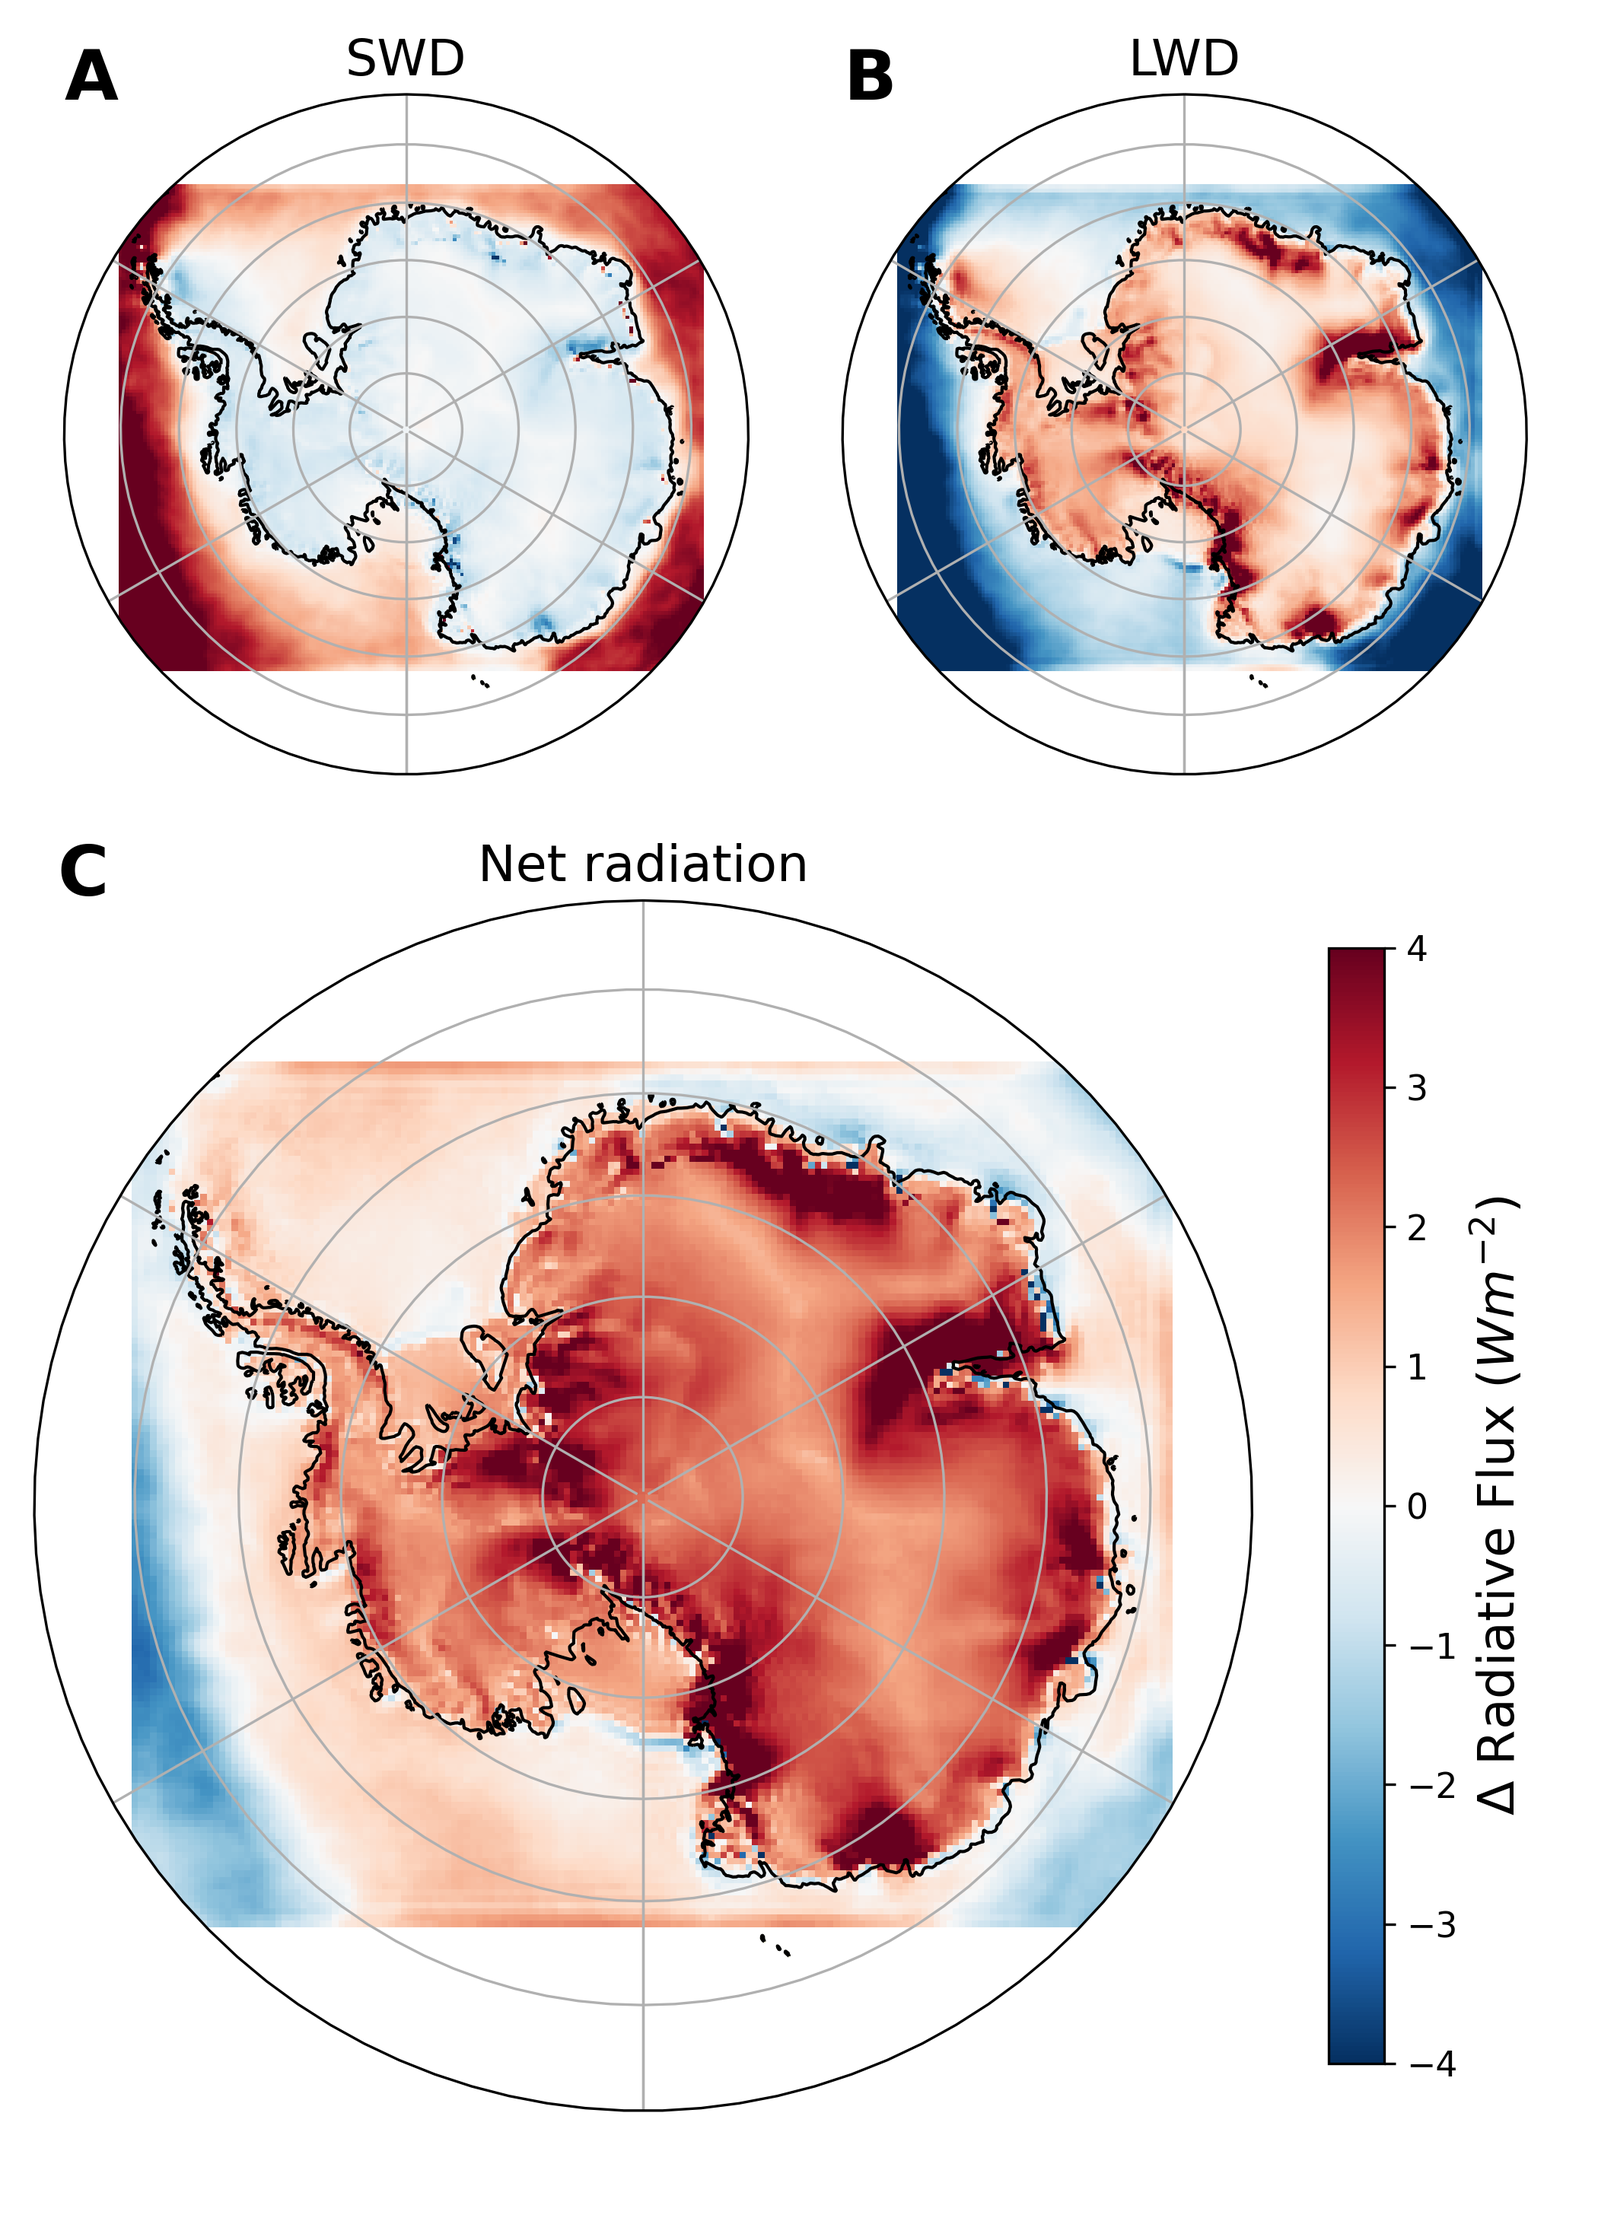
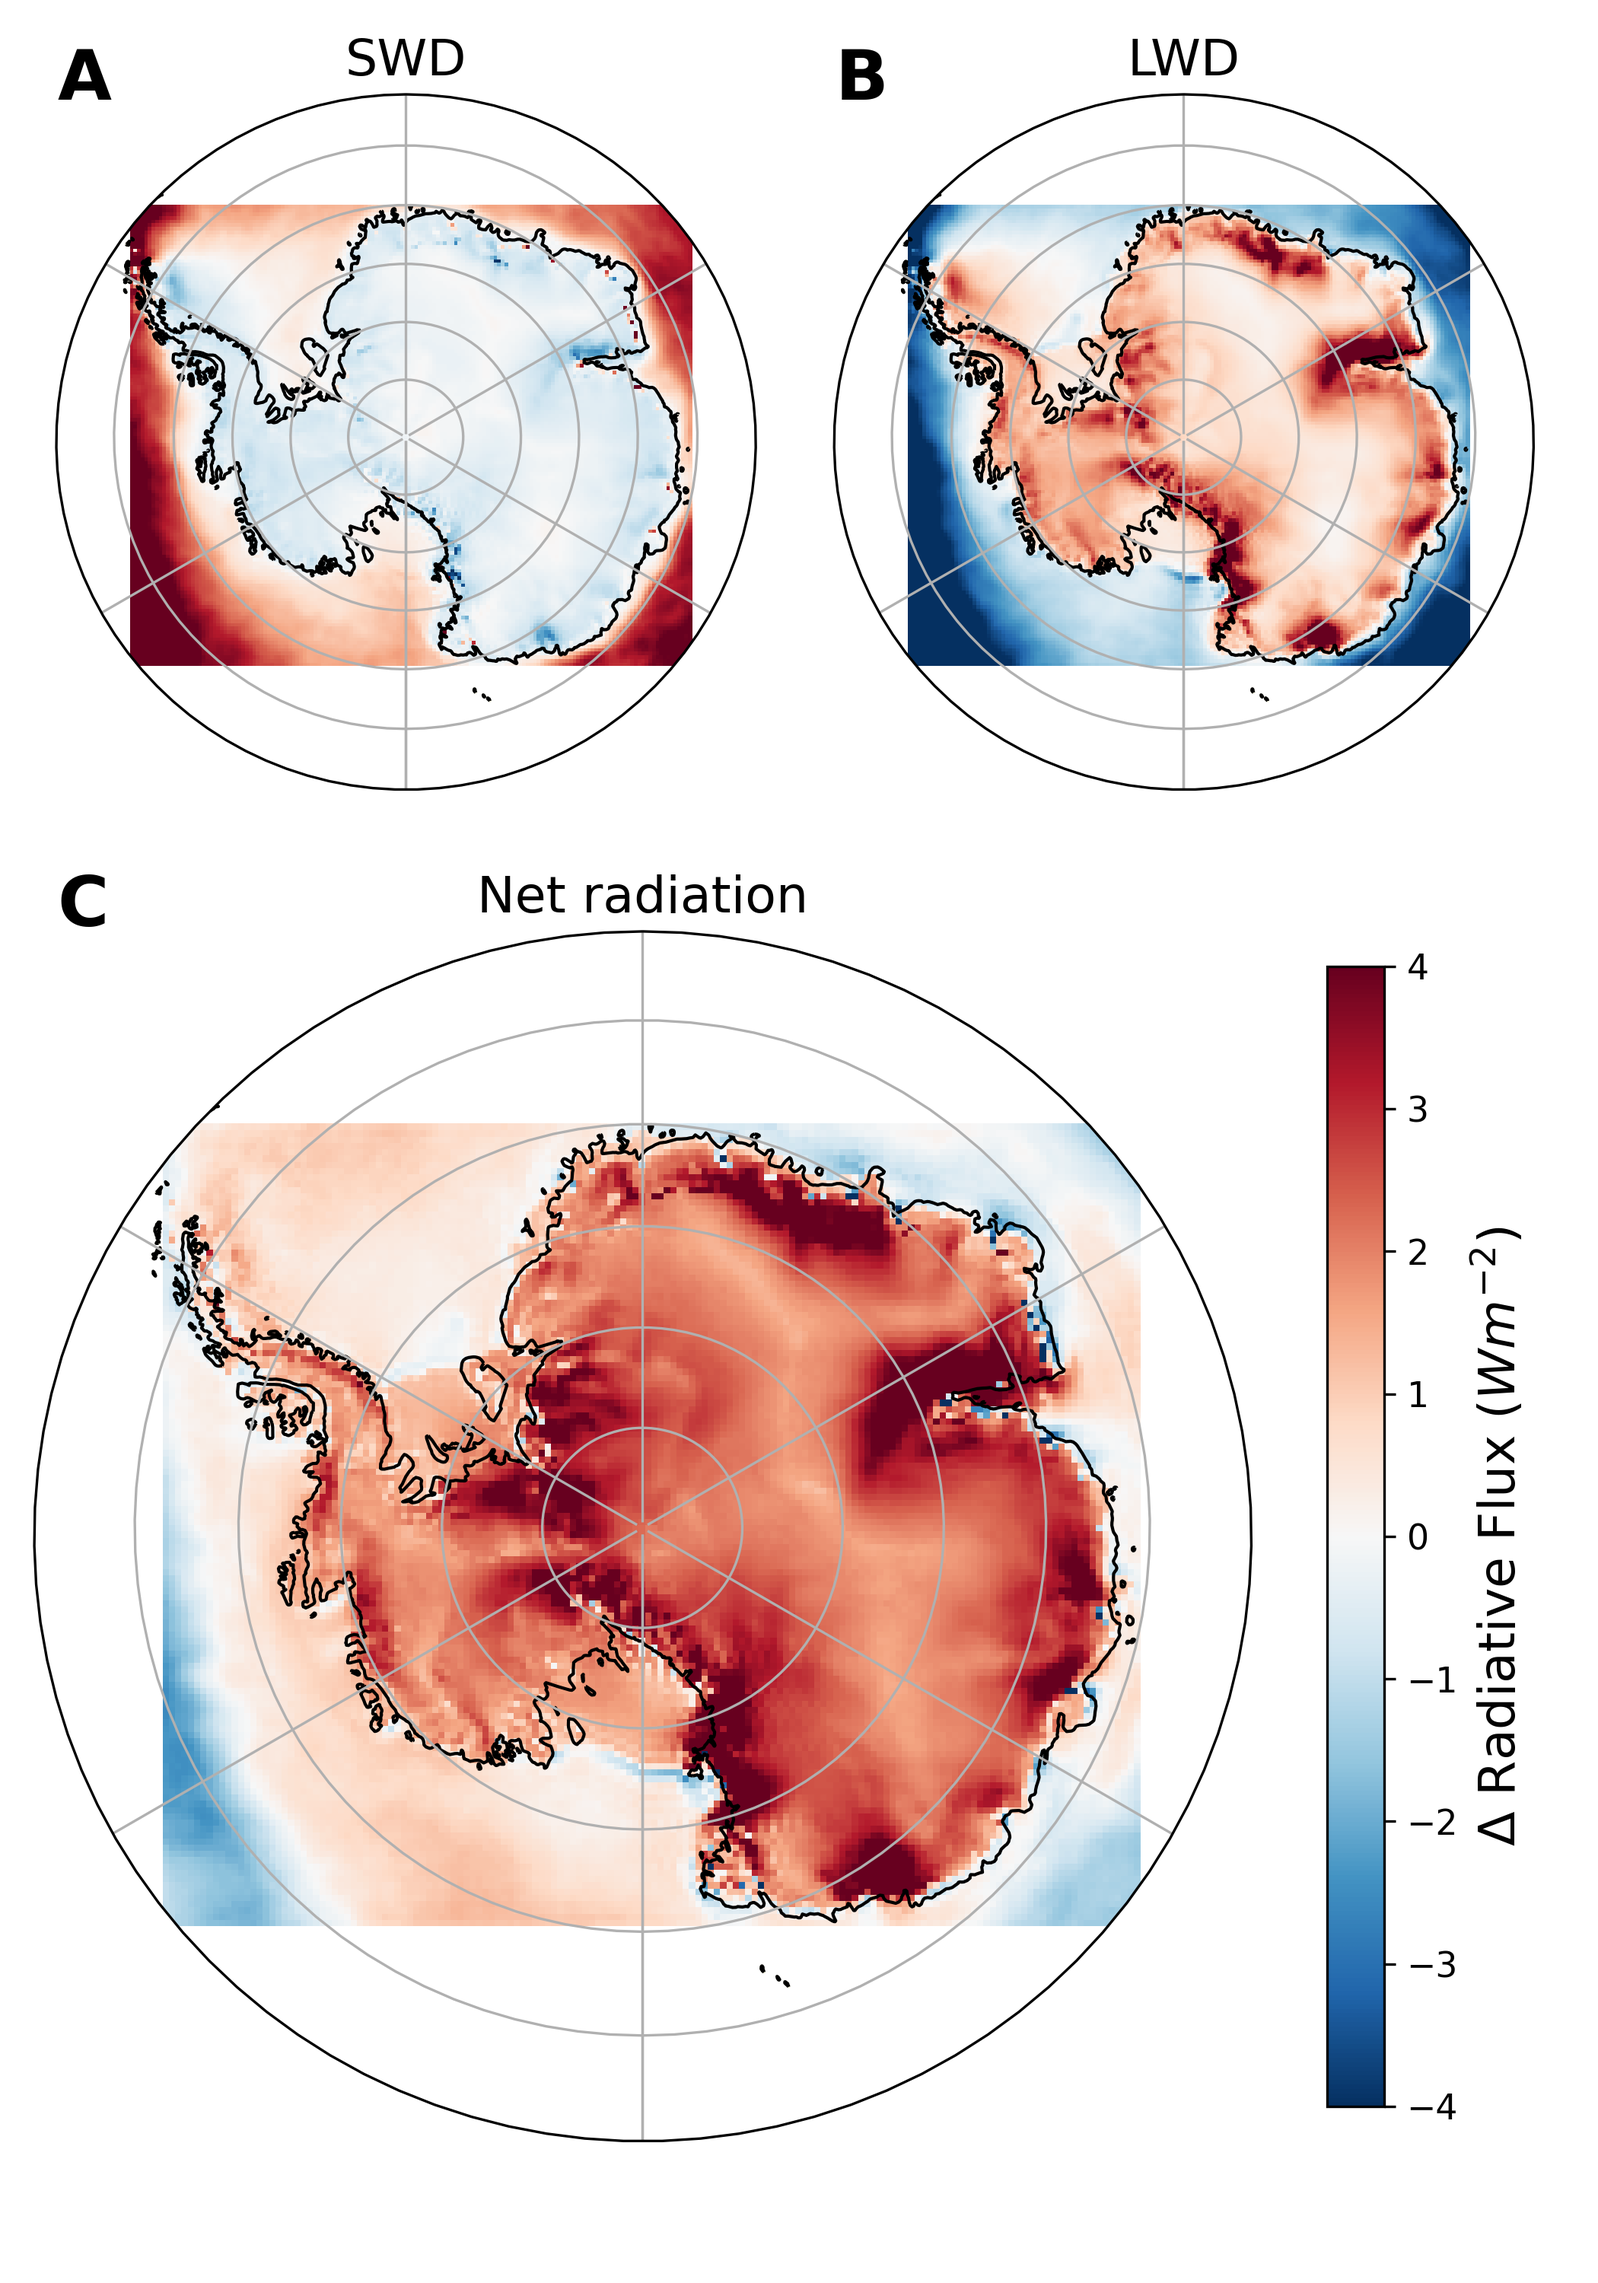
WIP: First draft updates

diff --git a/Fig4/2d_SEB.py b/Fig4/2d_SEB.py
@@ -38,6 +38,10 @@ ds_bs_SWN.name = 'SWN'
 ds_bs_LWN = (ds_bs_LWD.LWD - ds_bs_LWU.LWU)
 ds_bs_LWN.name = 'LWN'
 
+for ds in [ds_bs_SWD, ds_bs_SWU, ds_bs_LWD, ds_bs_LWU, ds_bs_AL, ds_bs_SWN, ds_bs_LWN]:
+    ds['X'] = ds['X'] * 1000
+    ds['Y'] = ds['Y'] * 1000
+
 # ========================================
 ds_nobs_SWD = (xr.open_dataset(
     file_str_nobs + 'mon-SWD-MAR_ERA5-1979-2019.nc')).sel(TIME=slice(year_s, year_e)).mean(dim='TIME')
@@ -53,55 +57,63 @@ ds_nobs_SWN = (ds_nobs_SWD.SWD - ds_nobs_SWU.SWU)
 ds_nobs_SWN.name = 'SWN'
 ds_nobs_LWN = (ds_nobs_LWD.LWD - ds_nobs_LWU.LWU)
 ds_nobs_LWN.name = 'LWN'
+
+for ds in [ds_nobs_SWD, ds_nobs_SWU, ds_nobs_LWD, ds_nobs_LWU, ds_nobs_AL, ds_nobs_SWN, ds_nobs_LWN]:
+    ds['X'] = ds['X'] * 1000
+    ds['Y'] = ds['Y'] * 1000
 # ============================================
+# ==========================================================================
+# CREATE the ICE MASK
+# =========================================================
+
 MAR_grid = xr.open_dataset(
     file_str_zz + 'MARcst-AN35km-176x148.cdf')
 ds_grid = xr.Dataset({'RIGNOT': (['y', 'x'], MAR_grid.RIGNOT.values),
                       'SH': (['y', 'x'], MAR_grid.SH.values),
                       'LAT': (['y', 'x'], MAR_grid.LAT.values),
-                      'LON': (['y', 'x'], MAR_grid.LON.values)},
-                     coords={'x': (['x'], ds_nobs_SWD.X),
-                             'y': (['y'], ds_nobs_SWD.Y)})
+                      'LON': (['y', 'x'], MAR_grid.LON.values),
+                      'ICE': (['y', 'x'], MAR_grid.ICE.values),
+                      'AIS': (['y', 'x'], MAR_grid.AIS.values),
+                      'GROUND': (['y', 'x'], MAR_grid.GROUND.values),
+                      'AREA': (['y', 'x'], MAR_grid.AREA.values),
+                      'ROCK': (['y', 'x'], MAR_grid.ROCK.values)},
+                     coords={'x': (['x'], ds_nobs_CC.X),
+                             'y': (['y'], ds_nobs_CC.Y)})
 
-# ==========================================================================
-# CREATE the ICE MASK
-MSK = xr.open_dataset(
-    file_str_zz + 'MARcst-AN35km-176x148.cdf', decode_times=False)
-MSK = MSK.rename_dims({'x': 'X', 'y': 'Y'})  # change dim from ferret
-MSK = MSK.swap_dims({'X': 'x', 'Y': 'y'})  # change dim from ferret
-
-ais = MSK['AIS'].where(MSK['AIS'] > 0)  # Only AIS=1, other islands  =0
+ais = ds_grid['AIS'].where(ds_grid)['AIS'] > 0  # Only AIS=1, other islands  =0
 # Ice where ICE mask >= 30% (ICE[0-100%], dividing by 100 in the next ligne)
-ice = MSK['ICE'].where(MSK['ICE'] > 30)
+ice = ds_grid['ICE'].where(ds_grid['ICE'] > 30)
 # Combine ais + ice/100 * factor area for taking into account the projection
-ice_msk = (ais * ice * MSK['AREA'] / 100)
+ice_msk = (ais * ice * ds_grid['AREA'] / 100)
 
-grd = MSK['GROUND'].where(MSK['GROUND'] > 30)
-grd_msk = (ais * grd * MSK['AREA'] / 100)
+grd = ds_grid['GROUND'].where(ds_grid['GROUND'] > 30)
+grd_msk = (ais * grd * ds_grid['AREA'] / 100)
 
-lsm = (MSK['AIS'] < 1)
-ground = (MSK['GROUND'] * MSK['AIS'] > 30)
+lsm = (ds_grid['AIS'] < 1)
+ground = (ds_grid['GROUND'] * ds_grid['AIS'] > 30)
 
-shf = (MSK['ICE'] / MSK['ICE']).where((MSK['ICE'] > 30) &
-                                      (MSK['GROUND'] < 50) & (MSK['ROCK'] < 30) & (ais > 0))
+shf = (ds_grid['ICE'] / ds_grid['ICE']).where((ds_grid['ICE'] > 30) &
+                                              (ds_grid['GROUND'] < 50) & (ds_grid['ROCK'] < 30) & (ais > 0))
 shelf = (shf > 0)
 
-x2D, y2D = np.meshgrid(MSK['x'], MSK['y'])
-sh = MSK['SH']
+x2D, y2D = np.meshgrid(ds_grid['x'], ds_grid['y'])
+sh = ds_grid['SH']
 
-dh = (MSK['x'].values[0] - MSK['x'].values[1]) / 2.
+dh = (ds_grid['x'].values[0] - ds_grid['x'].values[1]) / 2.
+
 
 # ==========================================================
 
 
 diff_SWD = (ds_bs_SWD - ds_nobs_SWD).rename(
-    {'X': 'x', 'Y': 'y'}).isel(x=slice(5, -5), y=slice(5, -5))
+    {'X': 'x', 'Y': 'y'}).isel(x=slice(10, -10), y=slice(10, -10))
 diff_LWD = (ds_bs_LWD - ds_nobs_LWD).rename(
-    {'X': 'x', 'Y': 'y'}).isel(x=slice(5, -5), y=slice(5, -5))
+    {'X': 'x', 'Y': 'y'}).isel(x=slice(10, -10), y=slice(10, -10))
 diff_SWN = (ds_bs_SWN - ds_nobs_SWN).rename(
-    {'X': 'x', 'Y': 'y'}).isel(x=slice(5, -5), y=slice(5, -5))
+    {'X': 'x', 'Y': 'y'}).isel(x=slice(10, -10), y=slice(10, -10))
 diff_LWN = (ds_bs_LWN - ds_nobs_LWN).rename(
-    {'X': 'x', 'Y': 'y'}).isel(x=slice(5, -5), y=slice(5, -5))
+    {'X': 'x', 'Y': 'y'}).isel(x=slice(10, -10), y=slice(10, -10))
+
 
 diff_SWD['LAT'] = ds_grid.LAT
 diff_SWD['LON'] = ds_grid.LON
@@ -118,6 +130,35 @@ diff_LWN['LON'] = ds_grid.LON
 abs_diff_external = (
     diff_SWD.SWD + diff_LWD.LWD)
 abs_diff = (diff_SWN + diff_LWN)
+
+
+# Grounded ice
+LWP_one = diff_SWD.SWD.where(ground == 1).mean()
+# Shelves
+LWP_two = diff_SWD.SWD.where(shelf == 1).mean()
+# Ocean
+LWP_three = diff_SWD.SWD.where((ais == 0) & (shelf == 0)).mean()
+
+print('{}: Grounded={:.2f}, Shelves={:.2f}, Ocean={:.2f}'.format(
+    'SWD', LWP_one.values, LWP_two.values, LWP_three.values))
+# Grounded ice
+IWP_one = diff_LWD.LWD.where(ground == 1).mean()
+# Shelves
+IWP_two = diff_LWD.LWD.where(shelf == 1).mean()
+# Ocean
+IWP_three = diff_LWD.LWD.where((ais == 0) & (shelf == 0)).mean()
+
+print('{}: Grounded={:.2f}, Shelves={:.2f}, Ocean={:.2f}'.format(
+    'LWD', IWP_one.values, IWP_two.values, IWP_three.values))
+# Grounded ice
+COD_one = abs_diff.where(ground == 1).mean()
+# Shelves
+COD_two = abs_diff.where(shelf == 1).mean()
+# Ocean
+COD_three = abs_diff.where((ais == 0) & (shelf == 0)).mean()
+
+print('{}: Grounded={:.2f}, Shelves={:.2f}, Ocean={:.2f}'.format(
+    'Net diff', COD_one.values, COD_two.values, COD_three.values))
 
 
 # Plotting routines
@@ -155,13 +196,13 @@ for i in range(3):
     ax[i].set_boundary(circle, transform=ax[i].transAxes)
 
 cmap = 'YlGnBu_r'
-cont = ax[0].pcolormesh(diff_SWD['x'] * 1000, diff_SWD['y'] * 1000,
+cont = ax[0].pcolormesh(diff_SWD['x'], diff_SWD['y'],
                         diff_SWD.SWD,
                         transform=proj, vmin=-4, vmax=4, cmap='RdBu_r')
-cont2 = ax[1].pcolormesh(diff_LWD['x'] * 1000, diff_LWD['y'] * 1000,
+cont2 = ax[1].pcolormesh(diff_LWD['x'], diff_LWD['y'],
                          diff_LWD.LWD,
                          transform=proj, vmin=-4, vmax=4, cmap='RdBu_r')
-cont3 = ax[2].pcolormesh(abs_diff['x'] * 1000, abs_diff['y'] * 1000,
+cont3 = ax[2].pcolormesh(abs_diff['x'], abs_diff['y'],
                          abs_diff, transform=proj, vmin=-4, vmax=4, cmap='RdBu_r')
 # cont2 = ax[1].pcolormesh(trend_CC['lon'], trend_CC['lat'],
 #                          trend_CC.slope*30, transform=ccrs.PlateCarree(), vmin=-15, vmax=15, cmap='RdBu_r')
@@ -174,7 +215,7 @@ for i in range(3):
                transform=ax[i].transAxes, fontdict={'weight': 'bold'})
 # fig.canvas.draw()
 
-cb = fig.colorbar(cont, ax=ax[2], ticks=list(
+cb = fig.colorbar(cont3, ax=ax[2], ticks=list(
     np.arange(-4, 4.5, 1)), shrink=0.8)
 cb.set_label(r'$\Delta$ Radiative Flux $(Wm^{-2})$', fontsize=16)
 cb.ax.tick_params(labelsize=11)

diff --git a/Fig4/2d_microph.py b/Fig4/2d_microph.py
@@ -87,10 +87,11 @@ shf = (ds_grid['ICE'] / ds_grid['ICE']).where((ds_grid['ICE'] > 30) &
                                               (ds_grid['GROUND'] < 50) & (ds_grid['ROCK'] < 30) & (ais > 0))
 shelf = (shf > 0)
 
-x2D, y2D = np.meshgrid(MSK['x'], ds_grid['y'])
+x2D, y2D = np.meshgrid(ds_grid['x'], ds_grid['y'])
 sh = ds_grid['SH']
 
 dh = (ds_grid['x'].values[0] - ds_grid['x'].values[1]) / 2.
+
 
 # =======================================================================
 
@@ -109,31 +110,62 @@ diff_weighted_LWP = diff_LWP.CWP - (diff_CC.CC * diff_LWP.CWP)
 diff_weighted_IWP = diff_IWP.IWP - (diff_CC.CC * diff_IWP.IWP)
 diff_weighted_COD = diff_COD.COD - (diff_CC.CC * diff_COD.COD)
 
-# Extract values for paper
+
+def print_avg_antarctica(ds, mask, value, factor=1,
+                         part='Grounded', var='LWP'):
+    ds_new = ds.where(mask == value).mean() * factor
+
+    return print('For {} the mean of variable {} is {}!'.format(part, var, ds_new.values))
+
+
 # Grounded ice
-diff_weighted_LWP.where(ground == 1).mean() * 1000
+LWP_one = diff_weighted_LWP.where(ground == 1).mean() * 1000
 # Shelves
-diff_weighted_LWP.where(shelf == 1).mean() * 1000
+LWP_two = diff_weighted_LWP.where(shelf == 1).mean() * 1000
 # Ocean
-diff_weighted_LWP.where((ais == 0) & (shelf == 0)).mean() * 1000
+LWP_three = diff_weighted_LWP.where((ais == 0) & (shelf == 0)).mean() * 1000
+
+print('{}: Grounded={:.2f}, Shelves={:.2f}, Ocean={:.2f}'.format(
+    'LWP', LWP_one.values, LWP_two.values, LWP_three.values))
 # Grounded ice
-diff_weighted_IWP.where(ground == 1).mean() * 1000
+IWP_one = diff_weighted_IWP.where(ground == 1).mean() * 1000
 # Shelves
-diff_weighted_IWP.where(shelf == 1).mean() * 1000
+IWP_two = diff_weighted_IWP.where(shelf == 1).mean() * 1000
 # Ocean
-diff_weighted_IWP.where((ais == 0) & (shelf == 0)).mean() * 1000
+IWP_three = diff_weighted_IWP.where((ais == 0) & (shelf == 0)).mean() * 1000
+
+print('{}: Grounded={:.2f}, Shelves={:.2f}, Ocean={:.2f}'.format(
+    'IWP', IWP_one.values, IWP_two.values, IWP_three.values))
 # Grounded ice
-diff_weighted_COD.where(ground == 1).mean()
+COD_one = diff_weighted_COD.where(ground == 1).mean()
 # Shelves
-diff_weighted_COD.where(shelf == 1).mean()
+COD_two = diff_weighted_COD.where(shelf == 1).mean()
 # Ocean
-diff_weighted_COD.where((ais == 0) & (shelf == 0)).mean()
+COD_three = diff_weighted_COD.where((ais == 0) & (shelf == 0)).mean()
+
+print('{}: Grounded={:.2f}, Shelves={:.2f}, Ocean={:.2f}'.format(
+    'COD', COD_one.values, COD_two.values, COD_three.values))
 # Grounded ice
-diff_CC.CC.where(ground == 1).mean() * 100
+CC_one = diff_CC.CC.where(ground == 1).mean() * 100
 # Shelves
-diff_CC.CC.where(shelf == 1).mean() * 100
+CC_two = diff_CC.CC.where(shelf == 1).mean() * 100
 # Ocean
-diff_CC.CC.where((ais == 0) & (shelf == 0)).mean() * 100
+CC_three = diff_CC.CC.where((ais == 0) & (shelf == 0)).mean() * 100
+
+print('{}: Grounded={:.2f}, Shelves={:.2f}, Ocean={:.2f}'.format(
+    'CC', CC_one.values, CC_two.values, CC_three.values))
+
+# oh no I think I do .sum of var*grd_msk.values*35*35 and then divide it by the grounded area (in km2)
+
+
+def xymean(mvar2d, marea2d):
+    return (mvar2d * marea2d).sum() / (marea2d).sum()
+
+
+# To assess mean of cloud optical depth
+test = ds_nobs_COD.rename({'X': 'x', 'Y': 'y'}).isel(
+    x=slice(10, -10), y=slice(10, -10))
+
 
 diff_CC['LAT'] = ds_grid.LAT
 diff_CC['LON'] = ds_grid.LON
@@ -186,18 +218,19 @@ for i in range(4):
 (diff_CC.CC * 100).plot.pcolormesh('x', 'y', transform=proj, ax=ax1,
                                    robust=True, cbar_kwargs={
                                        'label': r'$\Delta$ CC (%)', 'shrink': 1, 'orientation': 'horizontal',
-                                       'ticks': [-20, -10, 0, 10, 20], 'pad': 0.05})
+                                       'ticks': [-20, -10, 0, 10, 20], 'pad': 0.05, 'extend': 'both'})
 diff_weighted_COD.plot.pcolormesh('x', 'y', transform=proj, ax=ax2, robust=True, cbar_kwargs={
                                   'label': r'$\Delta$ COD', 'shrink': 1, 'orientation': 'horizontal',
-                                  'pad': 0.05, 'fraction': 0.15})
+                                  'pad': 0.05, 'fraction': 0.15, 'extend': 'both'})
+
 (diff_weighted_LWP * 1000).plot.pcolormesh('x', 'y', transform=proj, ax=ax3,
                                            robust=True, cbar_kwargs={
                                                'label': r'$\Delta$ LWP (g/kg)', 'shrink': 1, 'orientation': 'horizontal',
-                                               'ticks': [-2, -1, 0, 1, 2], 'pad': 0.05})
+                                                'pad': 0.05, 'extend': 'both'})
 (diff_weighted_IWP * 1000).plot.pcolormesh('x', 'y', transform=proj, ax=ax4,
                                            robust=True, cbar_kwargs={
                                                'label': r'$\Delta$ IWP (g/kg)', 'shrink': 1, 'orientation': 'horizontal',
-                                               'ticks': [-20, -10, 0, 10, 20], 'pad': 0.05})
+                                                'pad': 0.05, 'extend': 'both'})
 #
 # cont = ax[0].pcolormesh(diff_CC['x'], diff_CC['y'],
 #                         (diff_CC.CC)*100,
